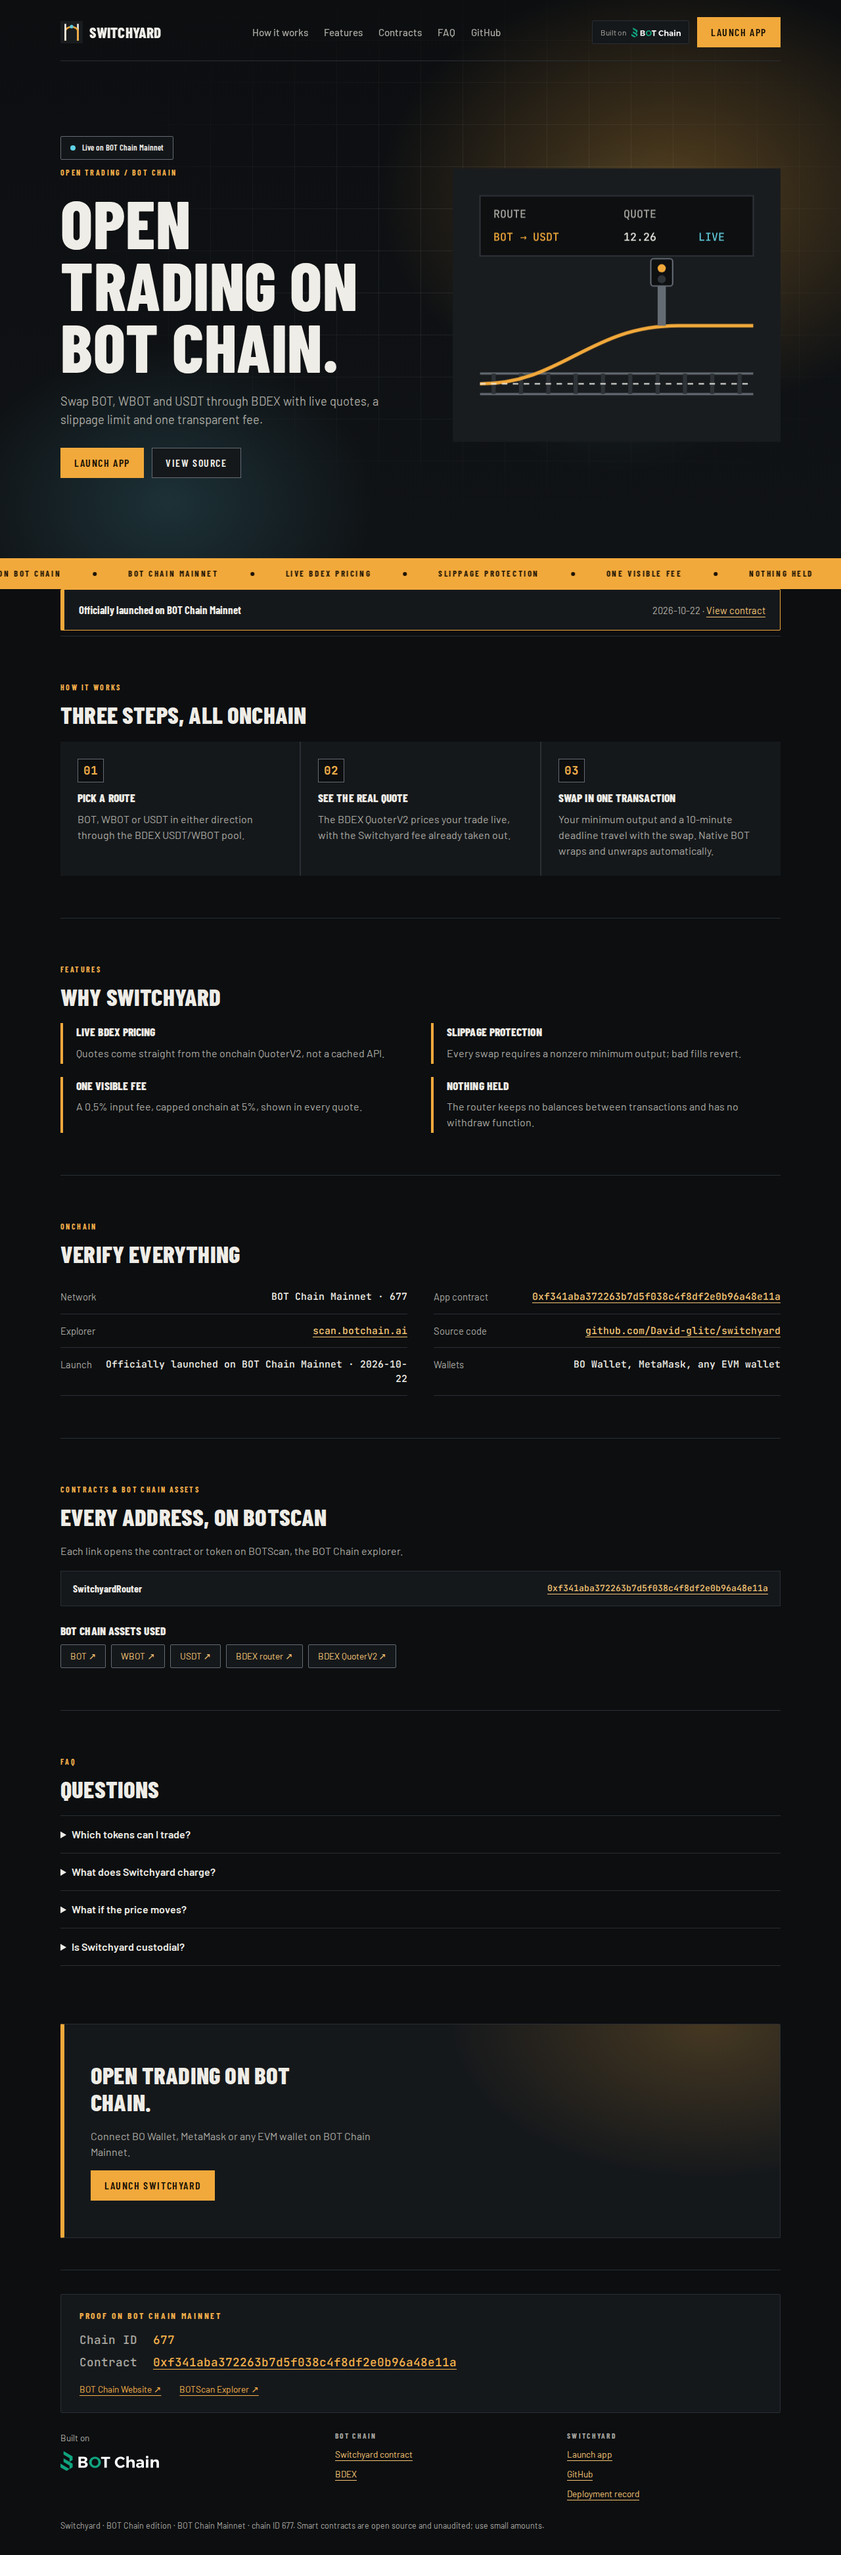
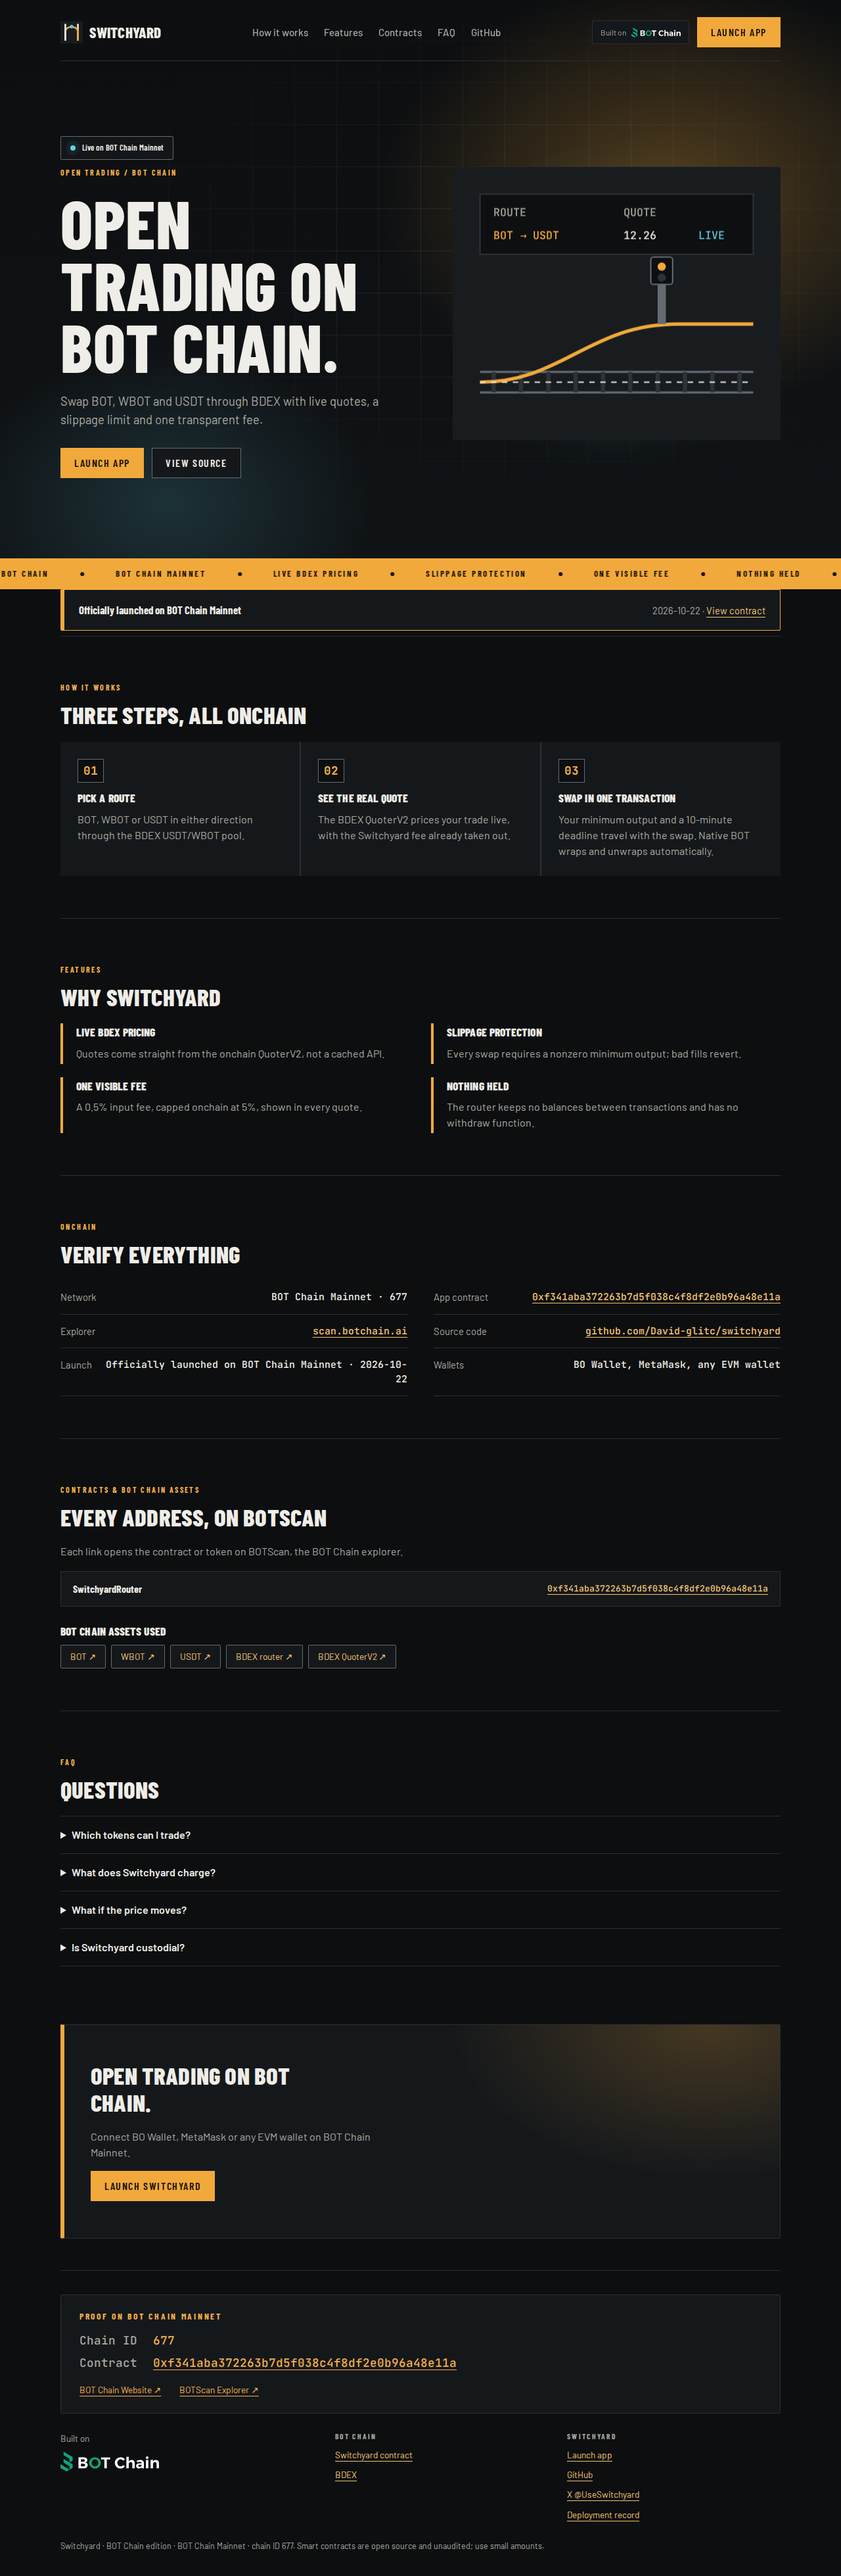
Add X handle to footer and docs

diff --git a/README.md b/README.md
@@ -6,6 +6,7 @@
 
 - Website and app: https://switchyardbot.vercel.app (app at [`/app/`](https://switchyardbot.vercel.app/app/))
 - Network: BOT Chain mainnet, chain ID 677 · [BOT Chain](https://www.botchain.ai/) · [BOTScan](https://scan.botchain.ai/)
+- X: [@UseSwitchyard](https://x.com/UseSwitchyard)
 
 ![Switchyard landing page](docs/switchyard-landing-1280.png)
 
